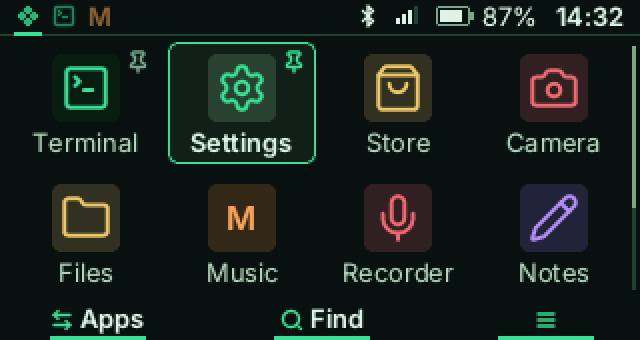
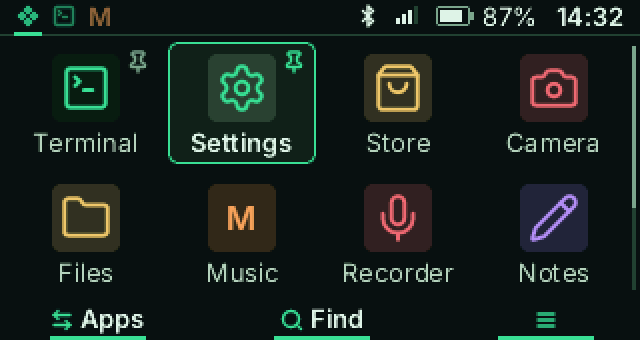
Fonts: crisper small Inter
Inter at 13 and 15 px blurred where a pixel-wide stem straddled two
pixels. Its glyphs now fit the grid as the mono ones do, but moving at
most a quarter pixel so letters stay evenly spaced, with a lighter
sharpen (0.12) and no gamma lift, which widened the fringe. Advances
are unchanged, so no layout moves. Large Inter and mono are as before.

Claude-Session: https://claude.ai/code/session_013xPXD2FmhLhSTYAjyD6KPf

diff --git a/crates/gh0st-ui/build.rs b/crates/gh0st-ui/build.rs
@@ -15,6 +15,13 @@ const COVERAGE_GAMMA: f32 = 1.25;
 /// full, so stems keep a hard core and only a thin fringe.
 const MONO_SHARPEN: f32 = 0.2;
 
+/// Inter below this em blurs the same way, its stems a pixel wide. It gets
+/// a milder cure: each glyph moves at most a quarter pixel (a half spaces
+/// letters unevenly), a lighter sharpen, and no gamma lift, which widens the
+/// fringe.
+const SMALL_SANS_EM: f32 = 16.0;
+const SMALL_SANS_SHARPEN: f32 = 0.12;
+
 const TEXT: &[(u32, u32)] = &[
     (0x20, 0x7e),
     (0xa0, 0x17f),
@@ -85,12 +92,34 @@ struct Face {
 }
 
 impl Face {
-    /// Mono faces are sharpened; Inter keeps its smooth edges.
+    fn small_sans(&self) -> bool {
+        self.snap_x_height && self.em < SMALL_SANS_EM
+    }
+
+    /// Mono and small Inter are sharpened; large Inter keeps its smooth
+    /// edges.
     fn sharpen(&self) -> f32 {
-        if self.snap_x_height {
-            0.0
+        match (self.snap_x_height, self.small_sans()) {
+            (false, _) => MONO_SHARPEN,
+            (true, true) => SMALL_SANS_SHARPEN,
+            (true, false) => 0.0,
+        }
+    }
+
+    /// How far, in eighths of a pixel, a glyph may move to fit the grid.
+    fn reach(&self) -> i32 {
+        match (self.snap_x_height, self.small_sans()) {
+            (false, _) => 4,
+            (true, true) => 2,
+            (true, false) => 0,
+        }
+    }
+
+    fn gamma(&self) -> f32 {
+        if self.small_sans() {
+            1.0
         } else {
-            MONO_SHARPEN
+            COVERAGE_GAMMA
         }
     }
 }
@@ -179,17 +208,18 @@ fn grid_fit(font: &FontRef, scale: PxScale) -> ab_glyph::Point {
     best.1
 }
 
-/// Each glyph then moves sideways, up to half a pixel, to put its own
-/// stems on pixels: m's three stems can't all fit the face's offset. The
-/// cell stays put; only the ink inside it moves.
+/// Each glyph then moves sideways, up to `reach` eighths of a pixel, to put
+/// its own stems on pixels: m's three stems can't all fit the face's offset.
+/// The cell stays put; only the ink inside it moves.
 fn glyph_fit(
     font: &FontRef,
     scale: PxScale,
     id: ab_glyph::GlyphId,
     face: ab_glyph::Point,
+    reach: i32,
 ) -> ab_glyph::Point {
     let mut best = (f32::MAX, face);
-    for i in -4..4 {
+    for i in -reach..reach {
         let at = point(face.x + i as f32 / 8.0, face.y);
         let b = blur(font, scale, id, at);
         // Ties keep the face's offset, so glyphs don't drift for nothing.
@@ -237,10 +267,9 @@ fn bake_fonts(dir: &Path, out: &Path) {
                     continue;
                 }
                 let adv = (scaled.h_advance(id) * 64.0).round() as u32;
-                let at = if f.snap_x_height {
-                    at
-                } else {
-                    glyph_fit(&font, scale, id, at)
+                let at = match f.reach() {
+                    0 => at,
+                    r => glyph_fit(&font, scale, id, at, r),
                 };
                 let glyph = id.with_scale_and_position(scale, at);
                 let (w, h, left, top, off) = match font.outline_glyph(glyph) {
@@ -250,10 +279,10 @@ fn bake_fonts(dir: &Path, out: &Path) {
                         let mut cov = vec![0f32; w * h];
                         outline.draw(|x, y, c| cov[y as usize * w + x as usize] = c);
                         let off = nibbles.len();
-                        let t = f.sharpen();
+                        let (t, gamma) = (f.sharpen(), f.gamma());
                         for c in cov {
                             let c = ((c - t) / (1.0 - 2.0 * t)).clamp(0.0, 1.0);
-                            let c = c.powf(1.0 / COVERAGE_GAMMA);
+                            let c = c.powf(1.0 / gamma);
                             nibbles.push((c * 15.0).round() as u8);
                         }
                         (w, h, b.min.x as i32, b.min.y as i32, off)
